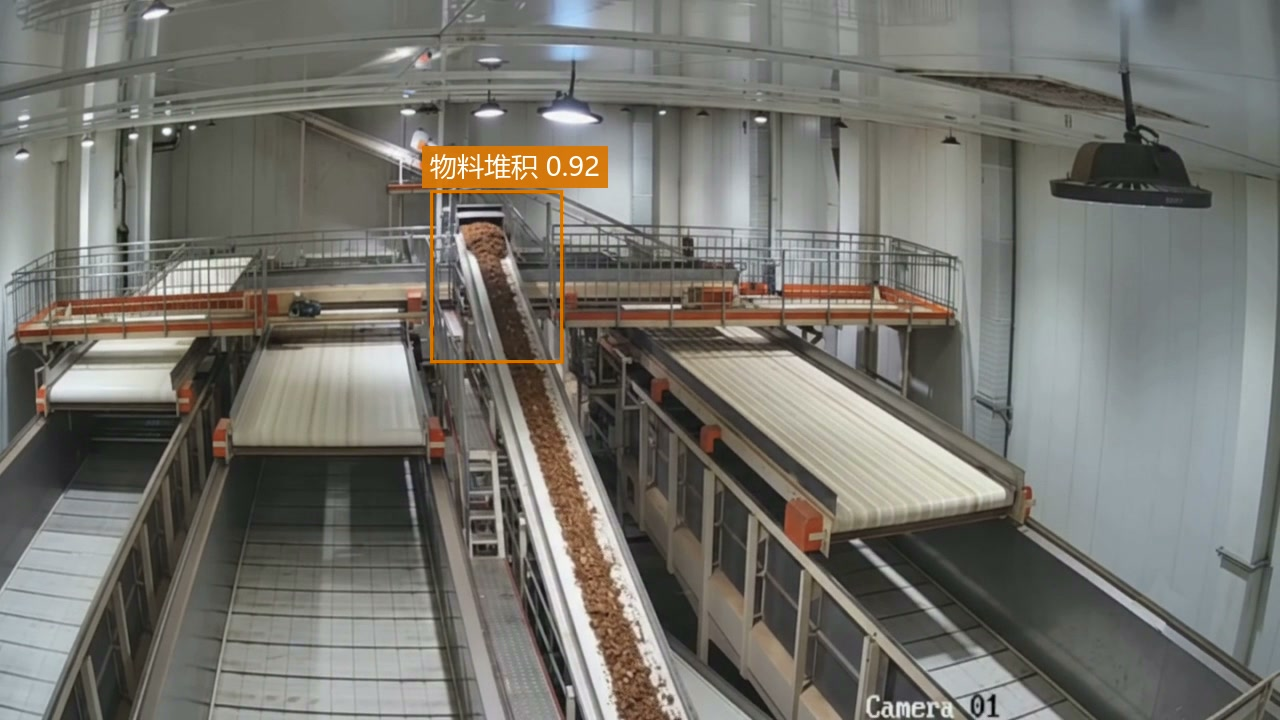
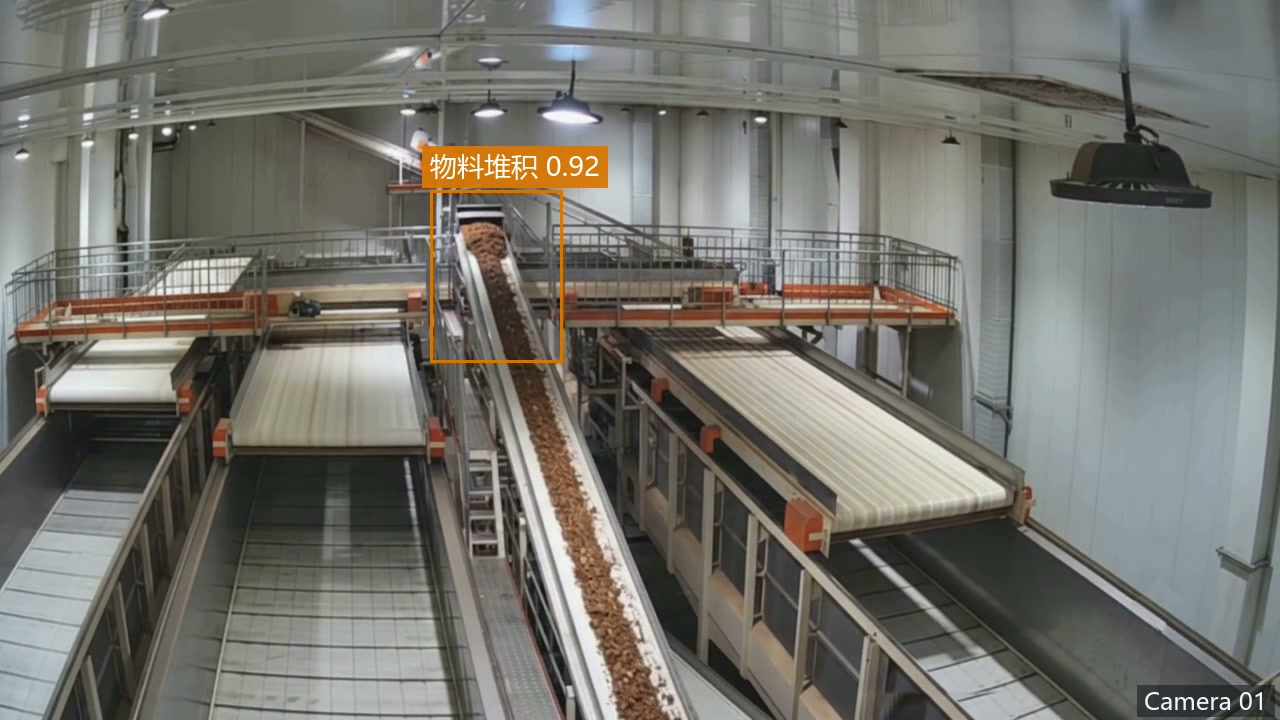
feat: use the final monitor footage with an overlay camera label
轮次 24：主监控视频替换为最终版，机位标识改由前端叠加。

背景
- 用户提供 Video_Final.mp4（去掉了视频自带的 Camera 01 水印），要求替换主监控画面
- 因为画面里没有机位标识了，需要前端在画面右下角叠加 Camera 01 之类的标识

新旧视频对比
- 编码/分辨率/帧率/时长/帧数完全一致：H.264 / 1280x720 / 24fps / 10.000s / 240 帧
- 大小 5441230 -> 5842309 字节（码率 4.35 -> 4.67 Mbps）
- 机位水印：右下角原有的 Camera 01 已去除
- 逐像素比对：差异仅 0.24%~0.33%，全部位于画面最底部 Y[691..719]，
  即机位水印所在行。物料带与检测框区域完全未变，检测框坐标无需调整

改动
- frontend/public/videos/main-monitor.mp4 替换为最终版（哈希一致）
- MonitorVideo.tsx：恢复 cameraLabel 属性与右下角叠加渲染；
  MONITOR_VIDEO_VERSION 由 2 升到 3
- MonitorVideo.css：恢复 .monitor-video__camera（右下角）；
  回退提示上移至 bottom: 38px 避免与机位标识重叠
- OverviewPage / FusionPage / VideoPage 共四处调用点传入 cameraLabel
  （Camera 01~04 全部覆盖）
- frontend/public/images/evidence/*.jpg 重新生成
- scripts/generate_evidence.py：证据图也叠加右下角机位标识，与网页保持一致

为什么证据图要一起改
- 证据图是从主监控视频截帧生成的，视频换了就必须重做
- 同时网页上有机位标识而证据图上没有会造成图文不一致，
  因此生成脚本里也补上了同一位置的标识

验证
- 后端 pytest 220 passed
- 前端 tsc + vite build 通过（632 模块，无警告）
- 产物复查：monitor-video__camera x1、cameraLabel x5、detection-overlay x3 都在
- 主视频版本号在产物中为 videos/main-monitor.mp4?v=3
- 公网主视频 200 / video/mp4 / 5842309 字节
- 公网证据图两张均 200 / image/jpeg（147235 / 148293 字节，已重新生成）
- 其余三段视频尺寸与替换前一致，未被触碰
- Range 请求：主视频 bytes=0-1023 返回 206，Content-Range 正确
- 缓存策略 public, max-age=300，单一 Accept-Ranges
- 主入口与 /smoking/ 下四段视频均 200
- /api/realtime、/api/alarms、/api/knowledge、检测框接口均 200
- fitness(80) 200，其它站点零回归

新增
- scripts/replace-main-video.sh：只替换主监控素材，不触碰其它机位

Changed region(s): [[0.875, 0.9472, 1.0, 1.0], [0.6562, 0.9472, 0.7812, 1.0]]

diff --git a/frontend/src/components/MonitorVideo.tsx b/frontend/src/components/MonitorVideo.tsx
@@ -36,7 +36,7 @@ export const MONITOR_VIDEO_PATH = 'videos/main-monitor.mp4'
  *
  * 查询串对 Nginx 静态文件服务无影响（只按路径匹配 $uri）。
  */
-export const MONITOR_VIDEO_VERSION = 2
+export const MONITOR_VIDEO_VERSION = 3
 
 /** 实际请求地址：带版本参数，避免浏览器复用旧缓存 */
 export const MONITOR_VIDEO_SRC = `${MONITOR_VIDEO_PATH}?v=${MONITOR_VIDEO_VERSION}`
@@ -97,6 +97,13 @@ interface MonitorVideoProps {
    * 其余点位只做画面循环展示，用默认的 1× 即可。
    */
   rate?: number
+  /**
+   * 画面右下角的机位标识，例如 "Camera 01"。
+   *
+   * 视频素材本身不再带机位水印（已去除），因此由前端叠加。
+   * 传空字符串则不显示。
+   */
+  cameraLabel?: string
 }
 
 type Mode = 'probing' | 'video' | 'fallback' | 'none'
@@ -112,6 +119,7 @@ export default function MonitorVideo({
   showDetection = false,
   videoSrc = MONITOR_VIDEO_SRC,
   rate = VIDEO_PLAYBACK_RATE,
+  cameraLabel = '',
 }: MonitorVideoProps) {
   const [mode, setMode] = useState<Mode>(hasStream ? 'probing' : 'none')
   const videoRef = useRef<HTMLVideoElement | null>(null)
@@ -271,10 +279,14 @@ export default function MonitorVideo({
       {visible !== 'none' && <DetectionOverlay box={detectionBox} />}
 
       {/* ---- 轻量叠加信息，不堆遮罩 ----
-           不再叠加机位标识文字：监控视频画面里本来就带 "Camera 01" 水印，
-           再叠一层会与之重复（用户明确要求去掉）。 */}
+           机位标识放在右下角：视频素材已去除自带的机位水印，因此由前端叠加，
+           样式与原来的水印接近（小、半透明底色），normal 阶段也始终可见。 */}
       {showTimestamp && visible !== 'none' && (
         <span className="monitor-video__timestamp">{timestamp ?? '----年--月--日 --:--:--'}</span>
+      )}
+
+      {visible !== 'none' && cameraLabel && (
+        <span className="monitor-video__camera">{cameraLabel}</span>
       )}
 
       {mode === 'fallback' && <span className="monitor-video__notice">静态监控画面</span>}

diff --git a/frontend/src/components/MonitorVideo.css b/frontend/src/components/MonitorVideo.css
@@ -43,10 +43,9 @@
   }
 }
 
-/* ---- 叠加信息：小、半透明、不遮挡主体 ----
-   已移除 .monitor-video__camera（机位标识）：视频画面自带 "Camera 01" 水印，
-   UI 再叠一层属于重复信息。 */
+/* ---- 叠加信息：小、半透明、不遮挡主体 ---- */
 .monitor-video__timestamp,
+.monitor-video__camera,
 .monitor-video__notice {
   position: absolute;
   font-family: var(--font-mono);
@@ -65,10 +64,18 @@
   left: 10px;
 }
 
-/* 回退提示放右下角 */
+/* 机位标识：视频素材已去除自带水印，这里在右下角叠加，
+   位置与观感对齐原来的机位水印 */
+.monitor-video__camera {
+  right: 12px;
+  bottom: 10px;
+  font-weight: 600;
+}
+
+/* 回退提示：放在机位标识上方，避免两者重叠 */
 .monitor-video__notice {
   right: 10px;
-  bottom: 9px;
+  bottom: 38px;
   background: rgba(217, 119, 6, 0.86);
   font-family: var(--font-sans);
 }

diff --git a/frontend/src/pages/VideoPage.tsx b/frontend/src/pages/VideoPage.tsx
@@ -103,7 +103,7 @@ export default function VideoPage({ meta }: VideoPageProps) {
           }
         >
           <div className="video-page__main-wrap">
-            <MonitorVideo timestamp={timestamp} hasStream />
+            <MonitorVideo cameraLabel={main.camera} timestamp={timestamp} hasStream />
           </div>
         </Panel>
 
@@ -137,6 +137,7 @@ export default function VideoPage({ meta }: VideoPageProps) {
           >
             <div className="video-page__thumb">
               <MonitorVideo
+                cameraLabel={slot.camera}
                 showTimestamp={false}
                 hasStream={slot.hasStream}
                 placeholderText={`${slot.camera} 画面待切换`}

diff --git a/frontend/src/pages/FusionPage.tsx b/frontend/src/pages/FusionPage.tsx
@@ -97,6 +97,7 @@ export default function FusionPage({ realtime, realtimeError }: FusionPageProps)
         >
           <div className="fusion__video">
             <MonitorVideo
+              cameraLabel={realtime.monitor_point.code}
               timestamp={new Date().toLocaleString('zh-CN', { hour12: false })}
               hasStream={Boolean(realtime.monitor_point.stream)}
               /* 复用首页同一个异常检测框：位置/尺寸/标签/置信度完全一致 */

diff --git a/frontend/src/pages/OverviewPage.tsx b/frontend/src/pages/OverviewPage.tsx
@@ -206,6 +206,7 @@ export default function OverviewPage({
         >
           <div className="overview__video-wrap">
             <MonitorVideo
+              cameraLabel={point?.code ?? 'Camera 01'}
               timestamp={now.toLocaleString('zh-CN', { hour12: false })}
               hasStream={Boolean(point?.stream) || point === undefined}
               /* 主监控画面作为全站同步时间源：页面数值随它的 currentTime 变化 */

diff --git a/scripts/generate_evidence.py b/scripts/generate_evidence.py
@@ -108,8 +108,16 @@ def build_filter(
     label: str,
     font: str | None,
     width: int,
+    height: int,
+    camera_label: str = "",
 ) -> str:
-    """构造 drawbox + drawtext 滤镜串（YOLO 风格：粗框 + 左上角标签）。"""
+    """构造 drawbox + drawtext 滤镜串。
+
+    包含两部分：
+      * YOLO 风格检测框 + 左上角类别标签
+      * 画面右下角机位标识（视频素材本身已不含水印，由这里叠加，
+        与网页上的叠加层保持一致）
+    """
     # 边框线宽按画面宽度等比，保证不同分辨率下观感一致
     thickness = max(3, round(width * 0.0025))
     # 标签字号同样等比
@@ -134,6 +142,25 @@ def build_filter(
                 pad=max(4, round(font_size * 0.3)),
             )
         )
+
+        # 机位标识：右下角，半透明深色底 + 白字，与网页叠加层观感一致
+        if camera_label:
+            cam_size = max(18, round(width * 0.019))
+            margin_x = round(width * 0.009)
+            margin_y = round(height * 0.014)
+            parts.append(
+                "drawtext=fontfile='{font}':text='{text}':x=w-tw-{mx}:y=h-th-{my}"
+                ":fontsize={size}:fontcolor=#f2f6f7:box=1"
+                ":boxcolor=0x10181b@0.55:boxborderw={pad}".format(
+                    font=escape_path_for_filter(font),
+                    text=camera_label.replace(":", r"\:").replace("'", ""),
+                    mx=margin_x,
+                    my=margin_y,
+                    size=cam_size,
+                    pad=max(4, round(cam_size * 0.28)),
+                )
+            )
+
     return ",".join(parts)
 
 
@@ -151,9 +178,12 @@ def generate_one(
     color: str,
     label: str,
     frame_width: int,
+    frame_height: int,
+    camera_label: str = "",
 ) -> None:
     vf = build_filter(
-        x=x, y=y, w=w, h=h, color=color, label=label, font=font, width=frame_width
+        x=x, y=y, w=w, h=h, color=color, label=label, font=font,
+        width=frame_width, height=frame_height, camera_label=camera_label,
     )
     cmd = [
         ffmpeg,
@@ -250,6 +280,7 @@ def main() -> int:
     print(f"  视频源: {video_path}")
     print(f"  ffmpeg: {ffmpeg}")
     print(f"  字体  : {font or '未找到中文字体，标签将只显示数值'}")
+    print(f"  机位标识: {cfg.camera_id}（右下角）")
     print()
 
     for target in targets:
@@ -265,6 +296,9 @@ def main() -> int:
             color=target["color"],
             label=label,
             frame_width=FRAME_W,
+            frame_height=FRAME_H,
+            # 与网页一致：右下角叠加机位标识
+            camera_label=cfg.camera_id.replace("CAM-", "Camera "),
         )
 
     print()

diff --git a/docs/DEVELOPMENT_LOG.md b/docs/DEVELOPMENT_LOG.md
@@ -1307,4 +1307,61 @@ YOLO 异常检测框、静态图回退提示均不受影响。
 | 双入口 | 主入口与 `/smoking/` 均 200 |
 | 已有站点回归 | fitness(80) 200 |
 
+**Commit**：`5fcef712669056ecf169127d49fd47ec66e893ac`
+（`fix: remove explanatory copy from the monitoring UI` → 已推送）
+
+---
+
+## 轮次 24 — 主监控视频替换为最终版，机位标识改由前端叠加
+
+**背景**：用户提供 `Video_Final.mp4`（去掉了视频自带的 "Camera 01" 水印），
+要求替换主监控画面；同时因为画面里没有机位标识了，
+**需要前端在画面右下角叠加 "Camera 01" 之类的机位标识**。
+
+**新旧视频对比**
+
+| 项 | 旧（去四角星水印版） | 新 `Video_Final.mp4` |
+|---|---|---|
+| 编码 / 分辨率 / 帧率 | H.264 / 1280×720 / 24 fps | 同 |
+| 时长 / 帧数 | 10.000 s / 240 | 同 |
+| 大小 | 5,441,230 B（4.35 Mbps） | 5,842,309 B（4.67 Mbps） |
+| 机位水印 | 右下角有 "Camera 01" | **已去除** |
+
+逐像素比对：差异仅 0.24%~0.33%，**全部位于画面最底部 Y[691..719]**，
+即机位水印所在行。**物料带与检测框区域完全未变，检测框坐标无需调整**。
+
+**改动**
+
+| 文件 | 改动 |
+|---|---|
+| `frontend/public/videos/main-monitor.mp4` | 替换为最终版（哈希一致） |
+| `MonitorVideo.tsx` | 恢复 `cameraLabel` 属性与右下角叠加渲染；`MONITOR_VIDEO_VERSION` 2 → **3** |
+| `MonitorVideo.css` | 恢复 `.monitor-video__camera`（右下角）；回退提示上移至 `bottom: 38px` 避免重叠 |
+| `OverviewPage` / `FusionPage` / `VideoPage` | 四处调用点传入 `cameraLabel`（Camera 01~04 全部覆盖） |
+| `frontend/public/images/evidence/*.jpg` | **重新生成**：证据图取自视频文件，必须跟着换 |
+| `scripts/generate_evidence.py` | 证据图也叠加右下角机位标识，与网页保持一致 |
+
+**为什么证据图要一起改**：证据图是从主监控视频截帧生成的，
+视频换了就必须重做；同时网页上有机位标识而证据图上没有会造成图文不一致，
+因此生成脚本里也补上了同一位置的标识。
+
+**验证**
+
+| 检查项 | 结果 |
+|---|---|
+| 后端 pytest | **220 passed** |
+| 前端 tsc + vite build | 通过（632 模块，无警告） |
+| 产物复查 | `monitor-video__camera`×1、`cameraLabel`×5、`detection-overlay`×3 都在 |
+| 主视频版本号 | 产物中为 `videos/main-monitor.mp4?v=3` |
+| 公网主视频 | 200 / `video/mp4` / **5842309 字节** |
+| 公网证据图 | 两张均 200 / `image/jpeg`（147235 / 148293 字节，已重新生成） |
+| 其余三段视频 | 尺寸与替换前一致，未被触碰 |
+| Range 请求 | 主视频 `bytes=0-1023` → **206**，`Content-Range` 正确 |
+| 缓存策略 | `public, max-age=300`，单一 `Accept-Ranges` |
+| 双入口 | 主入口与 `/smoking/` 下四段视频均 200 |
+| 平台功能 | `/api/realtime`、`/api/alarms`、`/api/knowledge`、检测框接口均 200 |
+| 已有站点回归 | fitness(80) 200 |
+
+**新增**：`scripts/replace-main-video.sh`（只替换主监控素材，不触碰其它机位）。
+
 **Commit**：`待填`
